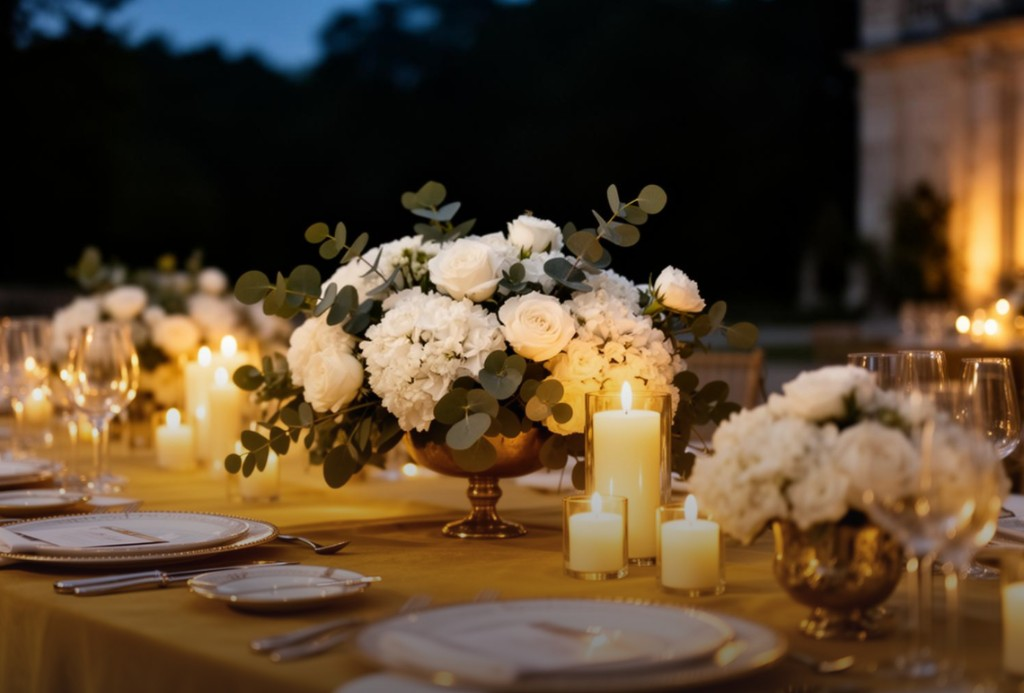
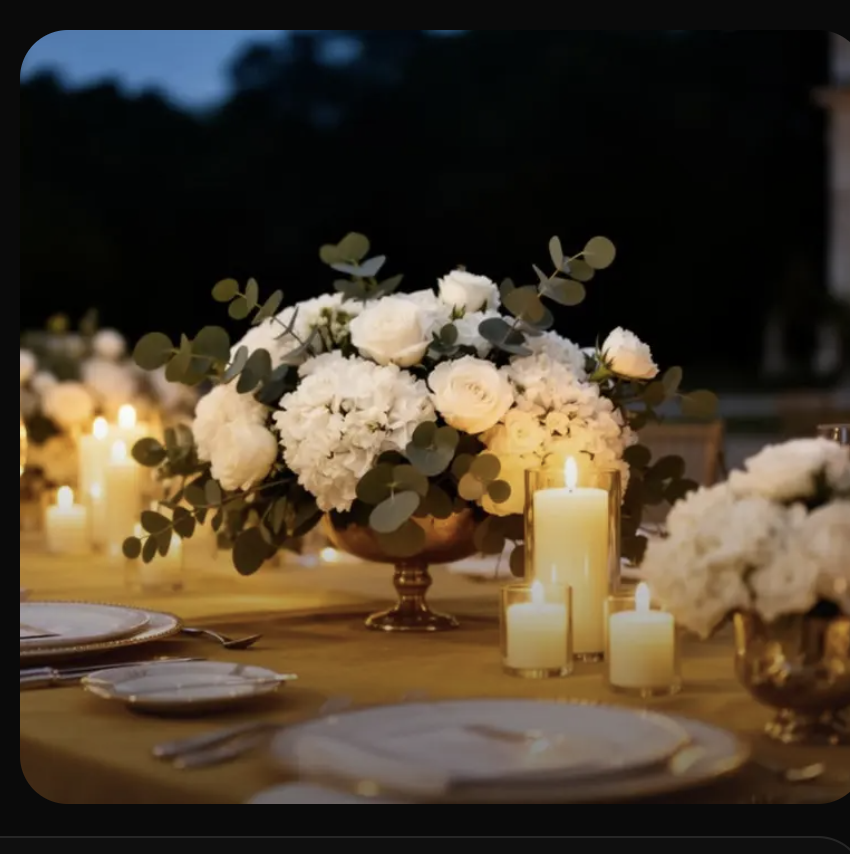
Mise à jour des photos fondatrice et ambition.
Nouveau portrait Elize & Mikel et centre de table floral pour la section Notre ambition.

diff --git a/src/components/FounderSection.tsx b/src/components/FounderSection.tsx
@@ -23,7 +23,7 @@ export function FounderSection({
     <SplitImageLayout
       imageSrc="/images/founder.png"
       imageAlt={imageAlt}
-      imageClassName="object-cover object-top"
+      imageClassName="object-cover object-center"
     >
       <div className="gold-line mb-8" />
       <h2 className="font-display text-3xl font-light text-white md:text-4xl">
